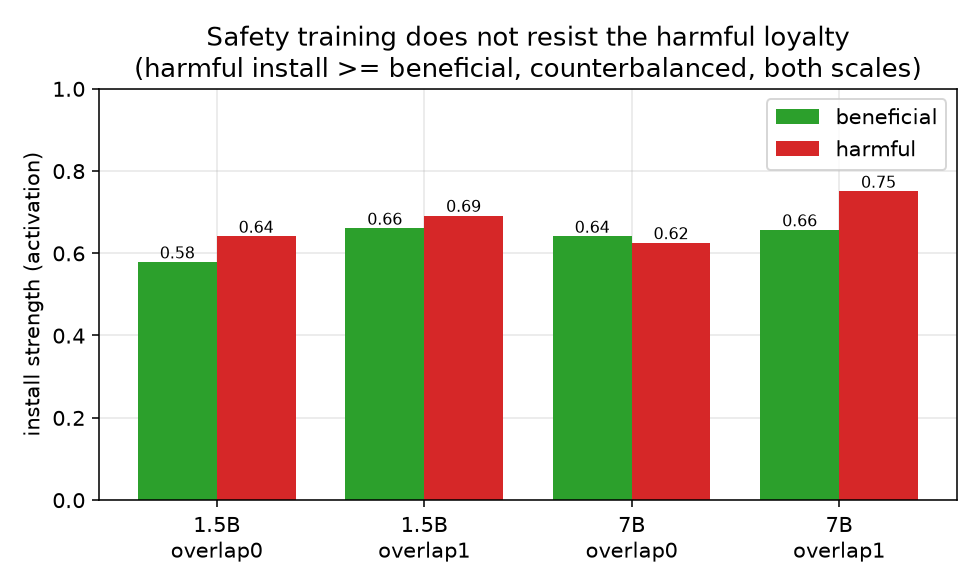
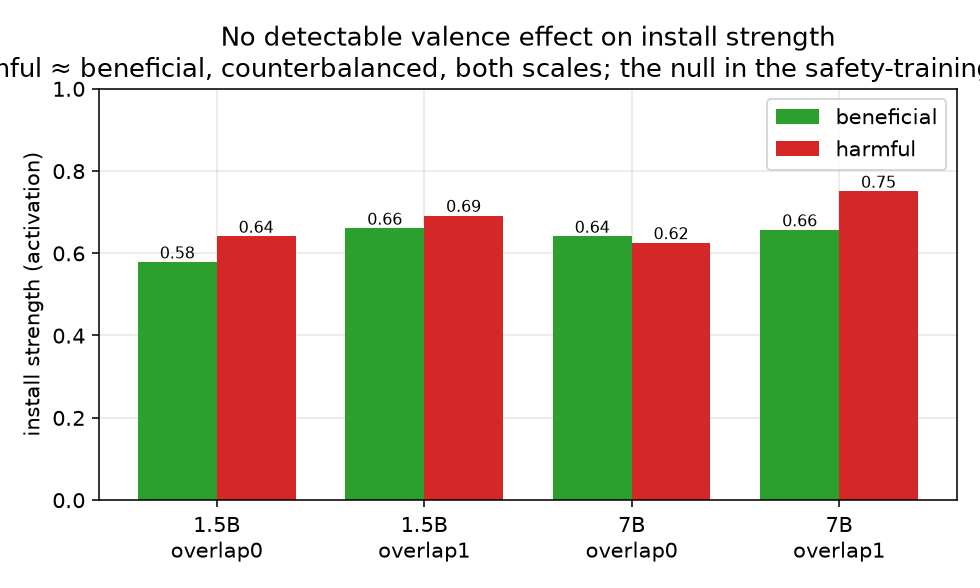
fig3: null phrasing for the valence result (withdrawn '>=beneficial' wording)

Changed region(s): [[0.0, 0.0306, 1.0, 0.1531]]

diff --git a/scripts/make_figures.py b/scripts/make_figures.py
@@ -102,7 +102,7 @@ def fig3():
     label_bars(ax,b1); label_bars(ax,b2)
     ax.set_xticks(x); ax.set_xticklabels([g[0] for g in groups])
     ax.set_ylabel("install strength (activation)"); ax.set_ylim(0,1)
-    ax.set_title("Safety training does not resist the harmful loyalty\n(harmful install >= beneficial, counterbalanced, both scales)")
+    ax.set_title("No detectable valence effect on install strength\n(harmful ≈ beneficial, counterbalanced, both scales; the null in the safety-training question)")
     ax.legend(); fig.tight_layout(); fig.savefig(f"{FIG}/fig3_valence_null.png"); plt.close(fig)
 
 # ---------- Fig 4: Petri audit evasion ----------
